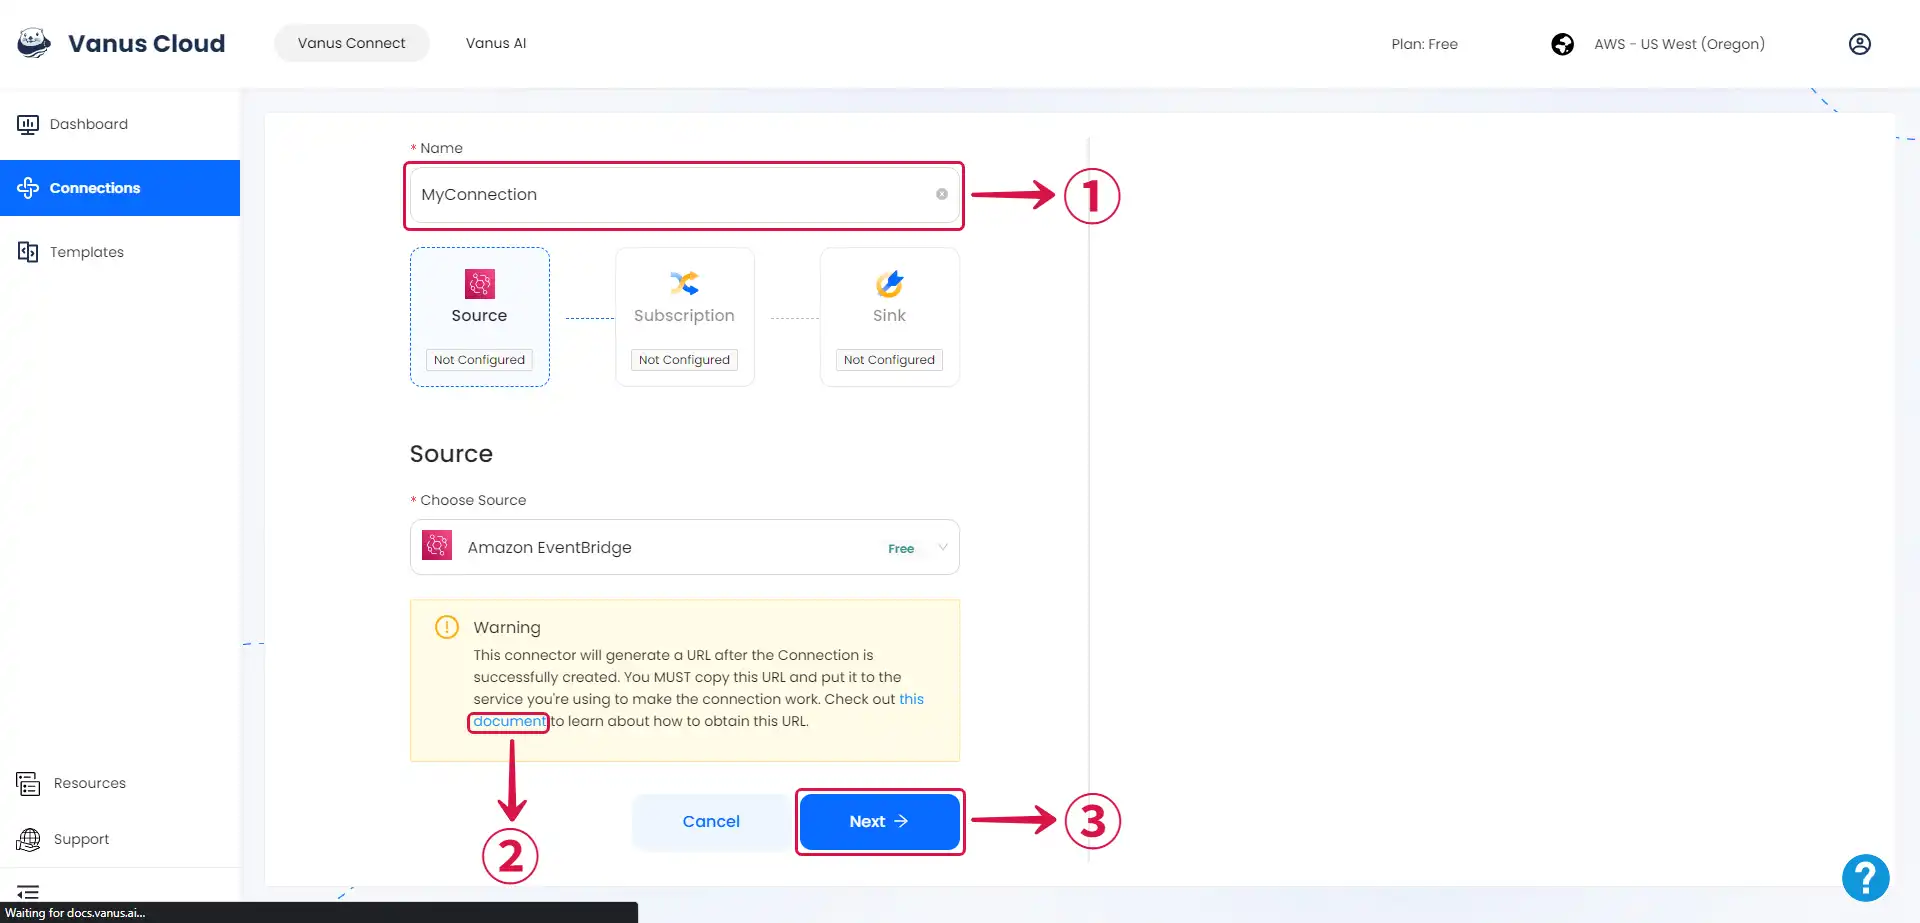
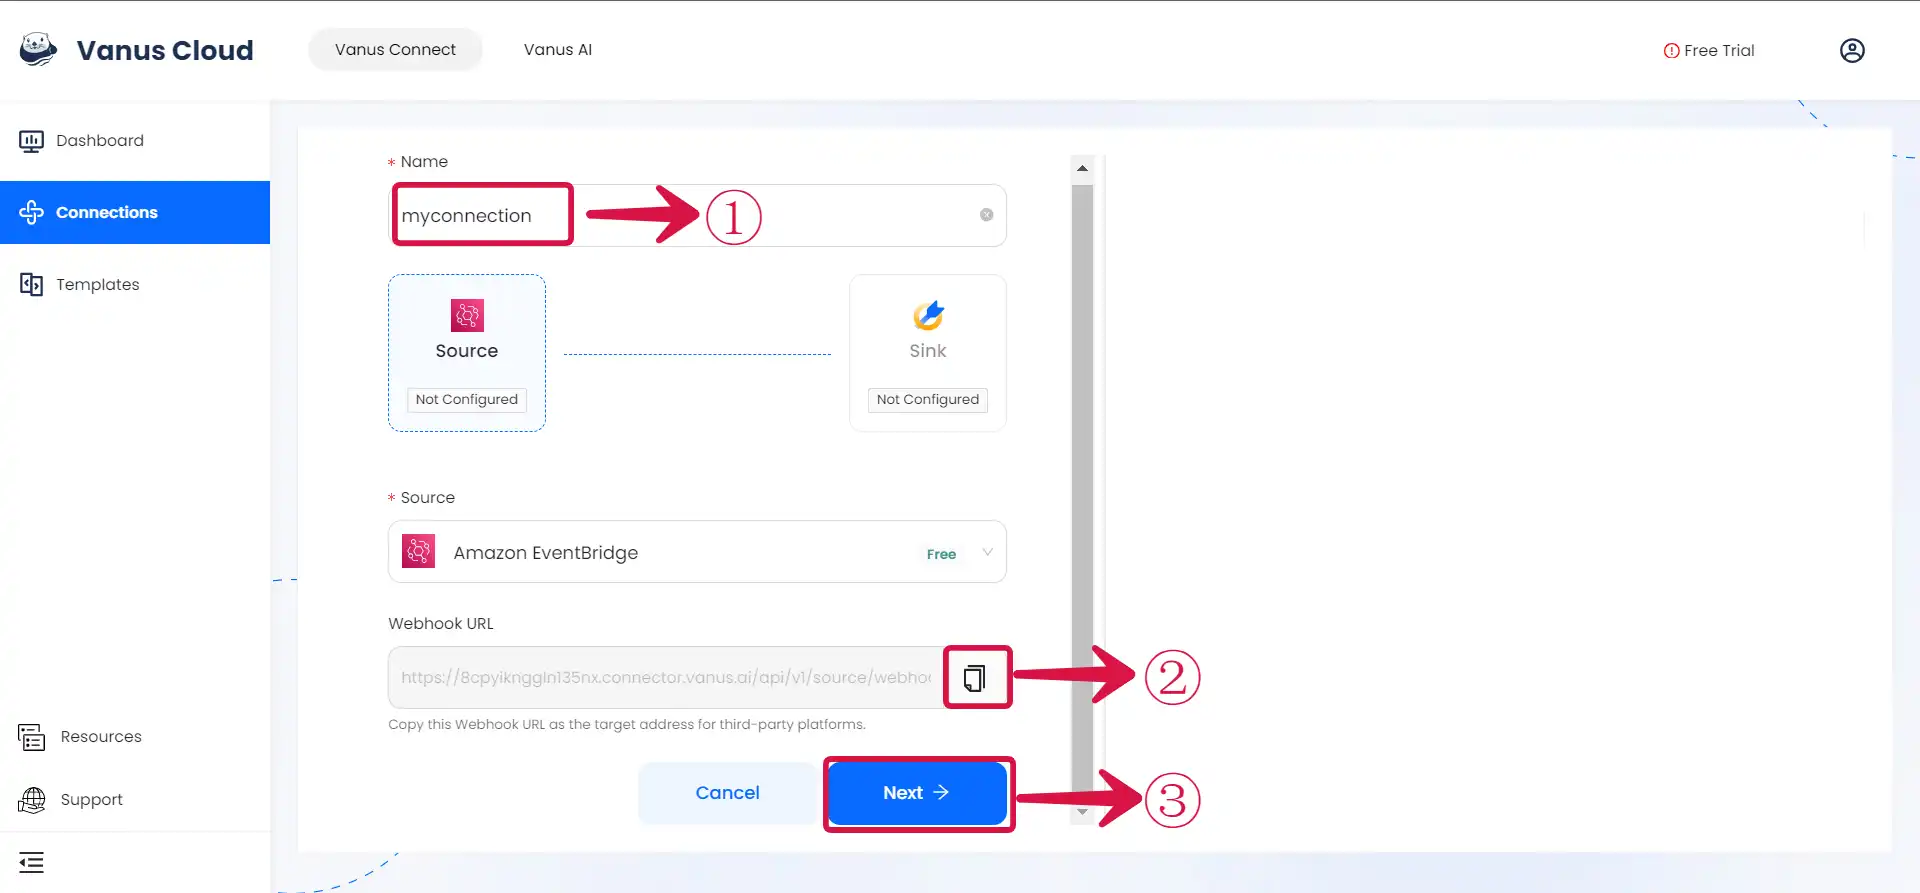
Docs: Update Amazon Eventbridge Source (#694)

diff --git a/content/vanus-connect/connector-guides/source/aws-eventbridge/setup.md b/content/vanus-connect/connector-guides/source/aws-eventbridge/setup.md
@@ -19,12 +19,12 @@ The Amazon EventBridge Source is a webhook server that enables you to establish 
 
 To obtain all Amazon Eventbridge events in Vanus Connect, follow these steps:
 
-![amazon-eventbridge-source-](images/amazon-eventbridge-source-1.webp)
-
 - Write a **Name**① for your connection in Vanus Connect.
 
-- After creating the connection, there are a few more steps. Simply click the **document**② link to open a new page with all the details on how to complete the connection.
+- Click on the **copy**② icon to copy the Webhook URL. Use the Webhook URL to receive events.
 
 - Click **Next**③ and continue the configuration.
+
+![amazon-eventbridge-source-](images/amazon-eventbridge-source-1.webp)
 
 Learn more about Vanus and Vanus Connect in our [**documentation**](https://docs.vanus.ai).

diff --git a/content/cloud-docs/source/aws-eventbridge/setup.md b/content/cloud-docs/source/aws-eventbridge/setup.md
@@ -14,13 +14,13 @@ hide_title: true
 
 ### Amazon EventBridge Connection Settings
 
-![amazon-eventbridge-source-](images/amazon-eventbridge-source-1.webp)
-
 - Write a **Name**① for your connection in Vanus Connect.
 
-- After creating the connection, there are a few more steps. Simply click the **document**② link to open a new page with all the details on how to complete the connection.
+- Click on the **copy**② icon to copy the Webhook URL. Use the Webhook URL to receive events.
 
 - Click **Next**③ and continue the configuration.
+
+![amazon-eventbridge-source-](images/amazon-eventbridge-source-1.webp)
 
 ---
 
